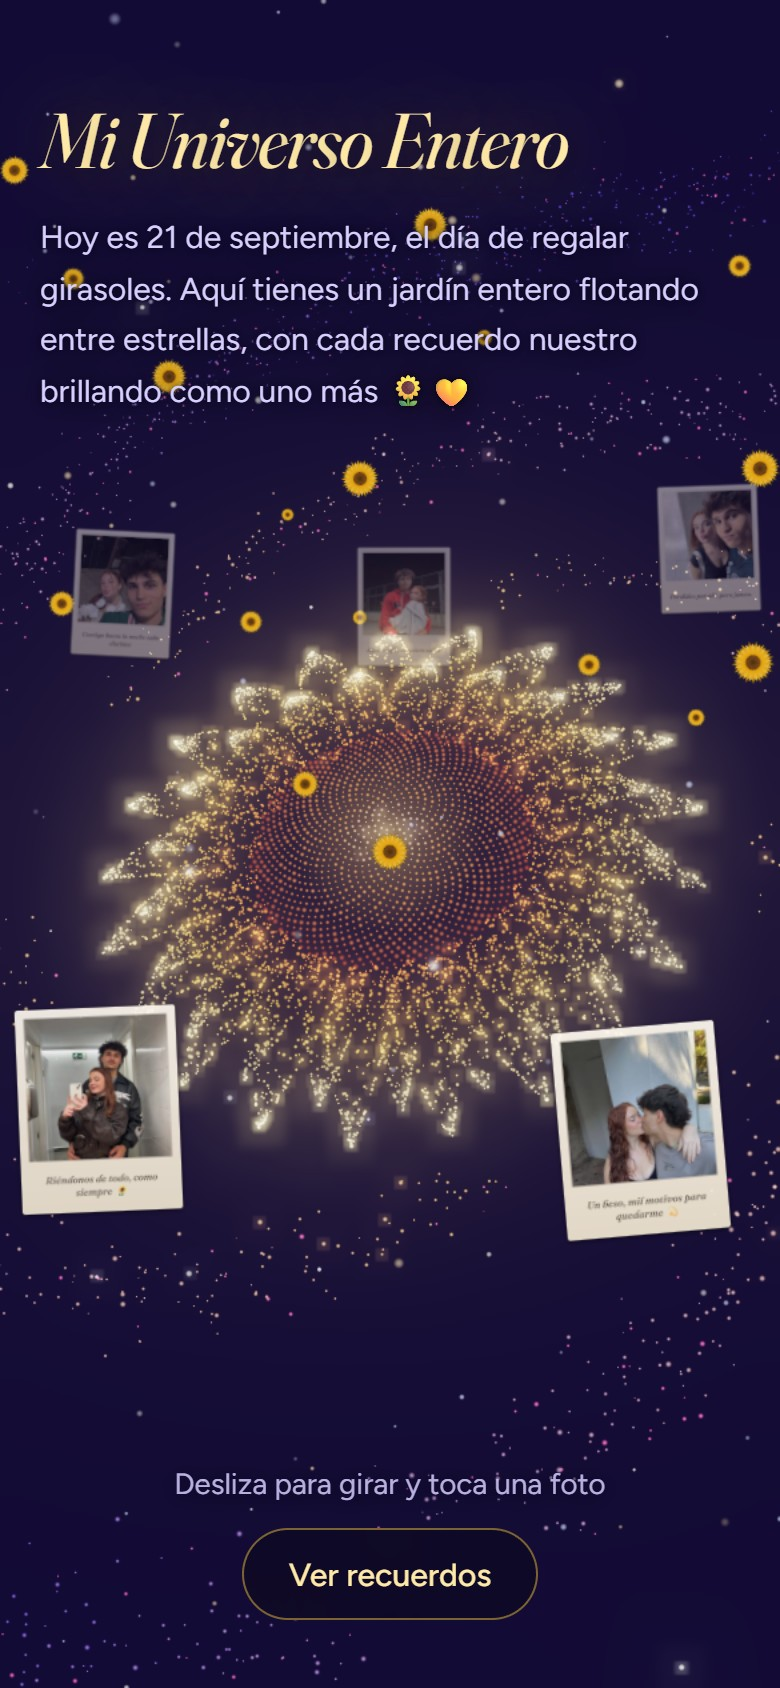
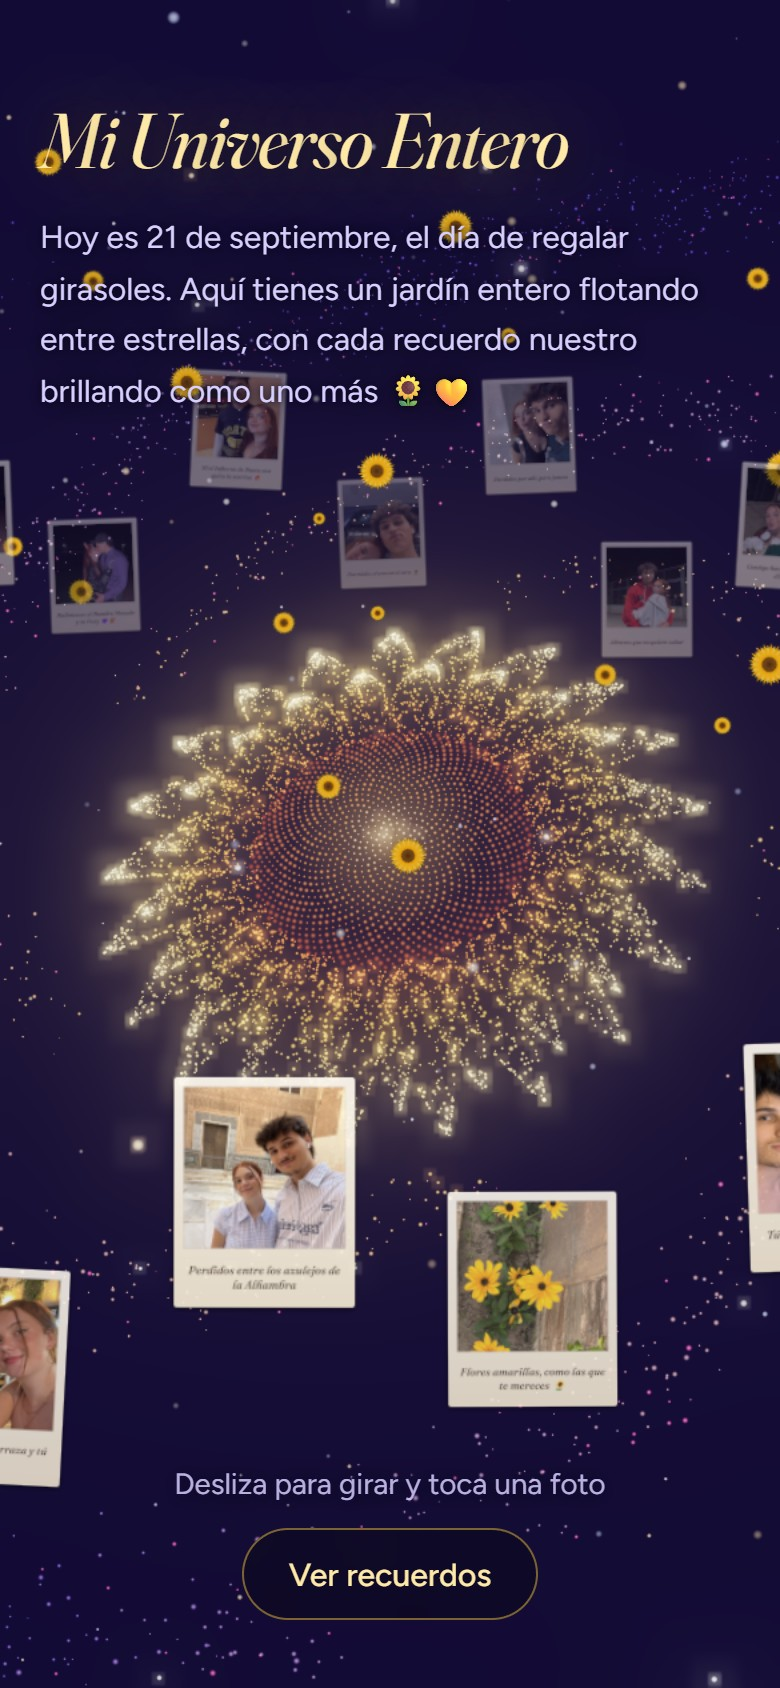
Añadir 14 fotos nuevas con su dedicatoria
- Recuerdos: de 9 a 23, recortados a cuadrado y sin metadatos
- El orden de la lista es el de la órbita: «siguiente» queda a la derecha
- El anillo crece con el número de fotos y alterna dos alturas
- README y capturas actualizados

diff --git a/index.html b/index.html
@@ -56,6 +56,7 @@
     <!--
       ✏ Las fotos: cada <figure> es un recuerdo. La escena 3D lee esta lista,
       así que para añadir, quitar o cambiar una foto basta con editarla aquí.
+      El orden de la lista es el orden en que giran: la siguiente queda a la derecha.
     -->
     <section class="recuerdos" id="recuerdos" aria-label="Nuestros recuerdos">
       <figure class="recuerdo">
@@ -93,6 +94,62 @@
       <figure class="recuerdo">
         <img src="assets/fotos/09.jpg" alt="Dormidos el uno sobre el otro" width="640" height="640" loading="lazy">
         <figcaption>Dormidos el uno en el otro 🌻</figcaption>
+      </figure>
+      <figure class="recuerdo">
+        <img src="assets/fotos/10.jpg" alt="En la exposición del Infierno de Dante, sonriendo a la cámara" width="960" height="960" loading="lazy">
+        <figcaption>Ni el Infierno de Dante nos quita la sonrisa 🔥</figcaption>
+      </figure>
+      <figure class="recuerdo">
+        <img src="assets/fotos/11.jpg" alt="Besándonos en Halloween, disfrazados de Five Nights at Freddy's: él de morado y ella con orejas de zorro y garfio" width="960" height="960" loading="lazy">
+        <figcaption>Halloween: el Hombre Morado y su Foxy 💜🦊</figcaption>
+      </figure>
+      <figure class="recuerdo">
+        <img src="assets/fotos/12.jpg" alt="En Halloween, él con cara de susto y linterna y ella tapándose la cara de la risa" width="960" height="960" loading="lazy">
+        <figcaption>Guardia de noche pillado in fraganti 🔦</figcaption>
+      </figure>
+      <figure class="recuerdo">
+        <img src="assets/fotos/13.jpg" alt="Selfi junto a una pared blanca, ella con el brazo sobre su hombro" width="960" height="960" loading="lazy">
+        <figcaption>Tu brazo en mi hombro y ya estoy en casa</figcaption>
+      </figure>
+      <figure class="recuerdo">
+        <img src="assets/fotos/14.jpg" alt="En una terraza de noche, ella tirando un beso y él con la cara apoyada en la mano" width="960" height="960" loading="lazy">
+        <figcaption>Tú poniendo morritos y yo derretido 😘</figcaption>
+      </figure>
+      <figure class="recuerdo">
+        <img src="assets/fotos/15.jpg" alt="Selfi en el Albaicín con la Alhambra al fondo" width="960" height="960" loading="lazy">
+        <figcaption>La Alhambra de fondo y yo mirándote a ti</figcaption>
+      </figure>
+      <figure class="recuerdo">
+        <img src="assets/fotos/16.jpg" alt="Selfi con chaquetas de cuero, ella asomando por su hombro y tirando un beso" width="960" height="960" loading="lazy">
+        <figcaption>Tus morritos asomando por mi hombro</figcaption>
+      </figure>
+      <figure class="recuerdo">
+        <img src="assets/fotos/17.jpg" alt="Foto en el espejo de un portal: él con muleta le da un beso en la frente y ella sonríe con los ojos cerrados" width="960" height="960" loading="lazy">
+        <figcaption>Cojo pero feliz: tus mimos lo curan todo 🩹</figcaption>
+      </figure>
+      <figure class="recuerdo">
+        <img src="assets/fotos/18.jpg" alt="Foto de recuerdo de un restaurante italiano, abrazados" width="960" height="960" loading="lazy">
+        <figcaption>Cena italiana y tú: el plan perfecto 🍝</figcaption>
+      </figure>
+      <figure class="recuerdo">
+        <img src="assets/fotos/19.jpg" alt="Selfi de noche en una terraza llena de gente" width="960" height="960" loading="lazy">
+        <figcaption>Noche de verano, terraza y tú ✨</figcaption>
+      </figure>
+      <figure class="recuerdo">
+        <img src="assets/fotos/20.jpg" alt="Selfi en un patio de la Alhambra, entre azulejos y yeserías" width="960" height="960" loading="lazy">
+        <figcaption>Perdidos entre los azulejos de la Alhambra</figcaption>
+      </figure>
+      <figure class="recuerdo">
+        <img src="assets/fotos/21.jpg" alt="Flores amarillas creciendo junto a un muro" width="960" height="960" loading="lazy">
+        <figcaption>Flores amarillas, como las que te mereces 🌻</figcaption>
+      </figure>
+      <figure class="recuerdo">
+        <img src="assets/fotos/22.jpg" alt="En casa: él en primer plano, ella en el sillón con el mando y un gato dormido entre los dos" width="960" height="960" loading="lazy">
+        <figcaption>Tú, el mando, el gato y yo: mi hogar 🐱</figcaption>
+      </figure>
+      <figure class="recuerdo">
+        <img src="assets/fotos/23.jpg" alt="Él con la sudadera cerrada hasta los ojos y ella mirándolo desde la cama" width="960" height="960" loading="lazy">
+        <figcaption>Yo de ninja y tú sin entender nada 🥷</figcaption>
       </figure>
     </section>
   </main>

diff --git a/js/universo.js b/js/universo.js
@@ -73,6 +73,7 @@ export class Universo {
     this.mezclaFoco = 0;
     this.sobre = -1; // foto bajo el cursor
     this.tarjetas = [];
+    this.radioAnillo = 16;
     this.conBloom = true;
     this._muestras = { suma: 0, n: 0, rebajas: 0 };
     this._previo = 0;
@@ -234,6 +235,8 @@ export class Universo {
     const anisotropia = this.renderer.capabilities.getMaxAnisotropy();
     const resolucion = esTactil ? 512 : 1024;
     const total = recuerdos.length;
+    // El anillo crece con el número de fotos para que quepan sin amontonarse.
+    this.radioAnillo = Math.max(16, (total * 5.6) / (Math.PI * 2));
 
     recuerdos.forEach((recuerdo, i) => {
       const imagen = imagenes[i];
@@ -245,11 +248,15 @@ export class Universo {
         geometria,
         new THREE.MeshBasicMaterial({ map: textura, transparent: true, toneMapped: false, depthWrite: false }),
       );
-      const angulo = (i / total) * Math.PI * 2 + 0.35;
-      const radio = 16 + this.rng() * 3;
+      // El ángulo decrece con el índice: así, vista desde fuera, la foto
+      // siguiente queda siempre a la derecha de la actual.
+      const angulo = 0.35 - (i / total) * Math.PI * 2;
+      const radio = this.radioAnillo + this.rng() * 3;
+      // Dos alturas alternas para que las vecinas no se tapen entre sí.
+      const altura = (i % 2 ? 4.6 : 0.4) + this.rng() * 1.6;
       tarjeta.userData = {
         indice: i,
-        base: new THREE.Vector3(Math.cos(angulo) * radio, 1 + this.rng() * 4.5, Math.sin(angulo) * radio),
+        base: new THREE.Vector3(Math.cos(angulo) * radio, altura, Math.sin(angulo) * radio),
         fase: this.rng() * Math.PI * 2,
         ladeo: (this.rng() - 0.5) * 0.16,
         escala: 0,
@@ -326,7 +333,8 @@ export class Universo {
   /** Distancia desde la que la flor entera cabe en pantalla. */
   _radioBase() {
     const tan = Math.tan(THREE.MathUtils.degToRad(FOV / 2));
-    return clamp(Math.max(38, 12.5 / (tan * this.camara.aspect)), 38, 70);
+    const minimo = Math.max(38, this.radioAnillo + 22);
+    return clamp(Math.max(minimo, 12.5 / (tan * this.camara.aspect)), minimo, 70);
   }
 
   /** Distancia a la que una polaroid llena la pantalla dejando sitio a los controles. */
@@ -456,7 +464,7 @@ export class Universo {
 
       // Las del lado lejano se desvanecen; al enfocar una, el resto se apaga.
       const distancia = tarjeta.position.distanceTo(this.camara.position);
-      const cercania = clamp((this.orbita.radio + 19 - distancia) / 38);
+      const cercania = clamp((this.orbita.radio + this.radioAnillo + 3 - distancia) / (this.radioAnillo * 2 + 6));
       const base = lerp(0.3, 1, cercania);
       tarjeta.material.opacity = lerp(base * (1 - this.mezclaFoco * 0.8), 1, d.foco);
       tarjeta.renderOrder = esFoco ? 1 : 0;

diff --git a/README.md b/README.md
@@ -26,11 +26,11 @@ Escena 3D interactiva con Three.js, sin paso de compilación.
 
 ## Qué es
 
-El 21 de septiembre es el día de regalar flores amarillas. Esta página regala un jardín entero: más de 20 000 estrellas que empiezan dispersas por el espacio y se van juntando hasta formar un girasol del tamaño de una galaxia. A su alrededor flotan girasoles pequeños y nueve polaroids con fotos y su dedicatoria.
+El 21 de septiembre es el día de regalar flores amarillas. Esta página regala un jardín entero: más de 20 000 estrellas que empiezan dispersas por el espacio y se van juntando hasta formar un girasol del tamaño de una galaxia. A su alrededor flotan girasoles pequeños y 23 polaroids con fotos y su dedicatoria.
 
 - **Arrastra** (o desliza) para orbitar alrededor de la flor, y usa la **rueda** o el **pellizco** para acercarte.
 - **Pulsa una foto** y la cámara vuela hasta ella; el resto del universo se atenúa.
-- Con una foto abierta, pasa a la siguiente con las **flechas**, los botones o **deslizando**; **Esc** vuelve a la vista general.
+- Con una foto abierta, pasa a la siguiente con las **flechas**, los botones o **deslizando**: la siguiente es siempre la que queda a su derecha. **Esc** vuelve a la vista general.
 
 <table>
   <tr>
@@ -78,7 +78,7 @@ Además, todo se puede recorrer con teclado, los botones tienen nombre accesible
 Todo el contenido está en [`index.html`](index.html), marcado con ✏:
 
 - **Título y dedicatoria:** el `<h1>` y el párrafo de la cabecera.
-- **Fotos:** cada `<figure class="recuerdo">` es una polaroid. Para añadir, quitar o cambiar una basta con editar esa lista; la escena reparte en órbita las que haya.
+- **Fotos:** cada `<figure class="recuerdo">` es una polaroid. Para añadir, quitar o cambiar una basta con editar esa lista; la escena reparte en órbita las que haya, en ese orden (la siguiente queda a la derecha), y agranda el anillo si hacen falta más huecos.
 
 ```html
 <figure class="recuerdo">
@@ -87,7 +87,7 @@ Todo el contenido está en [`index.html`](index.html), marcado con ✏:
 </figure>
 ```
 
-Las fotos se recortan a cuadrado desde el centro; 640 × 640 px es suficiente.
+Las fotos se recortan a cuadrado desde el centro; entre 640 y 960 px de lado es suficiente.
 
 ## Ejecutarlo en local
 
